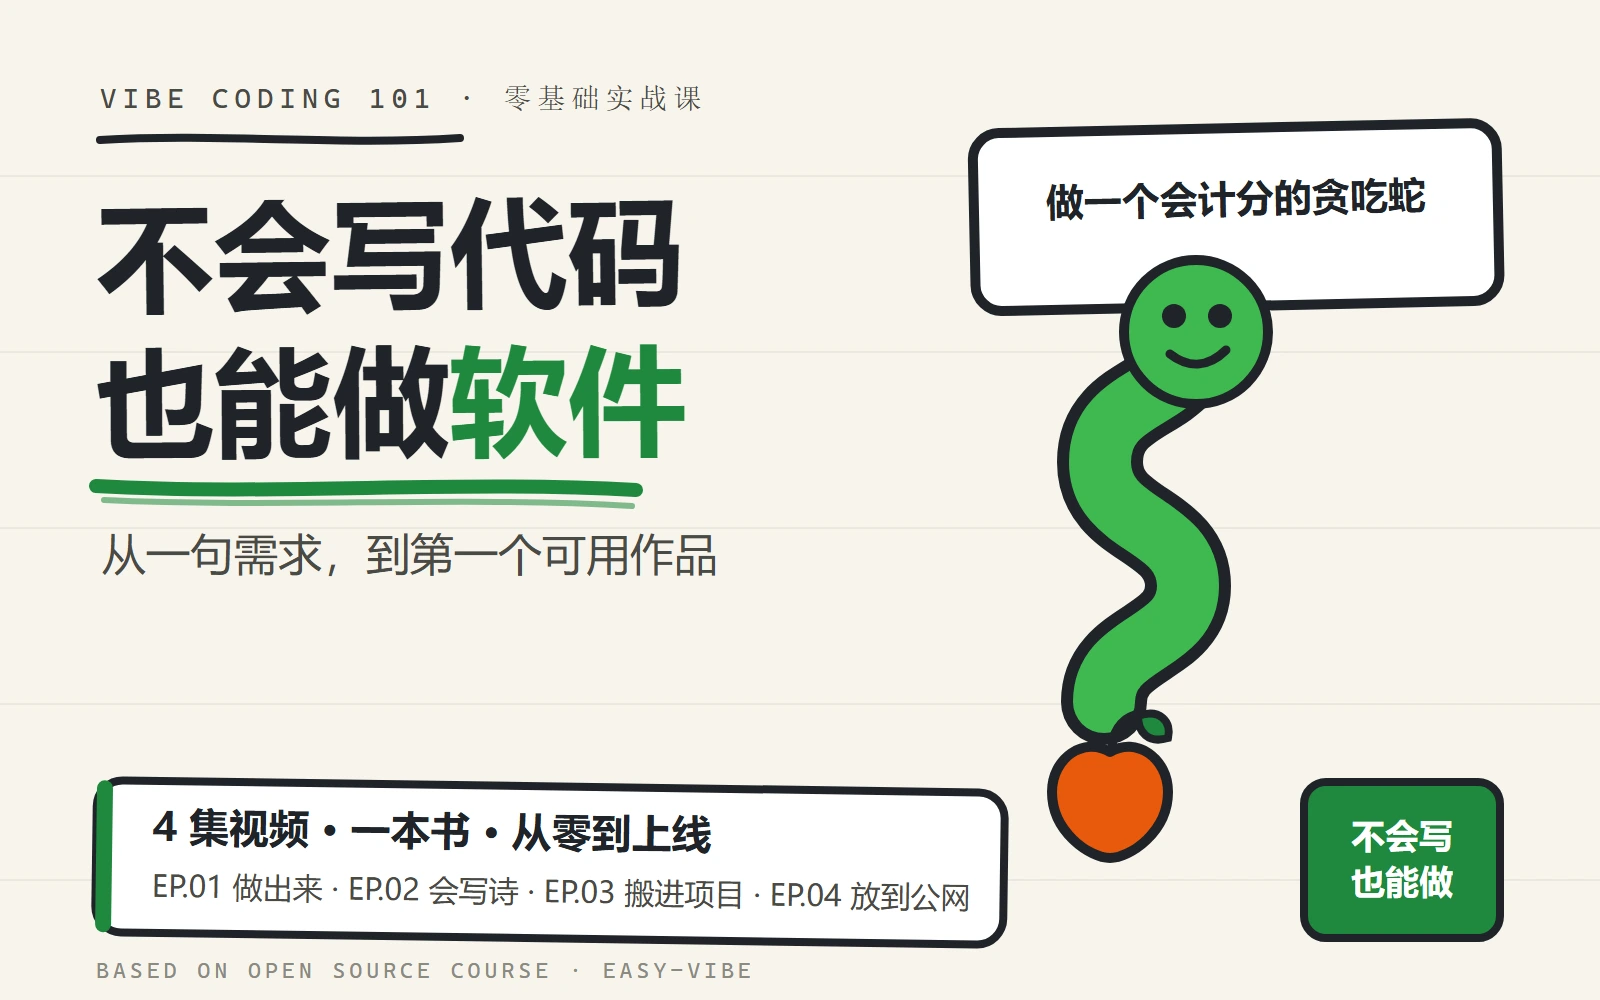
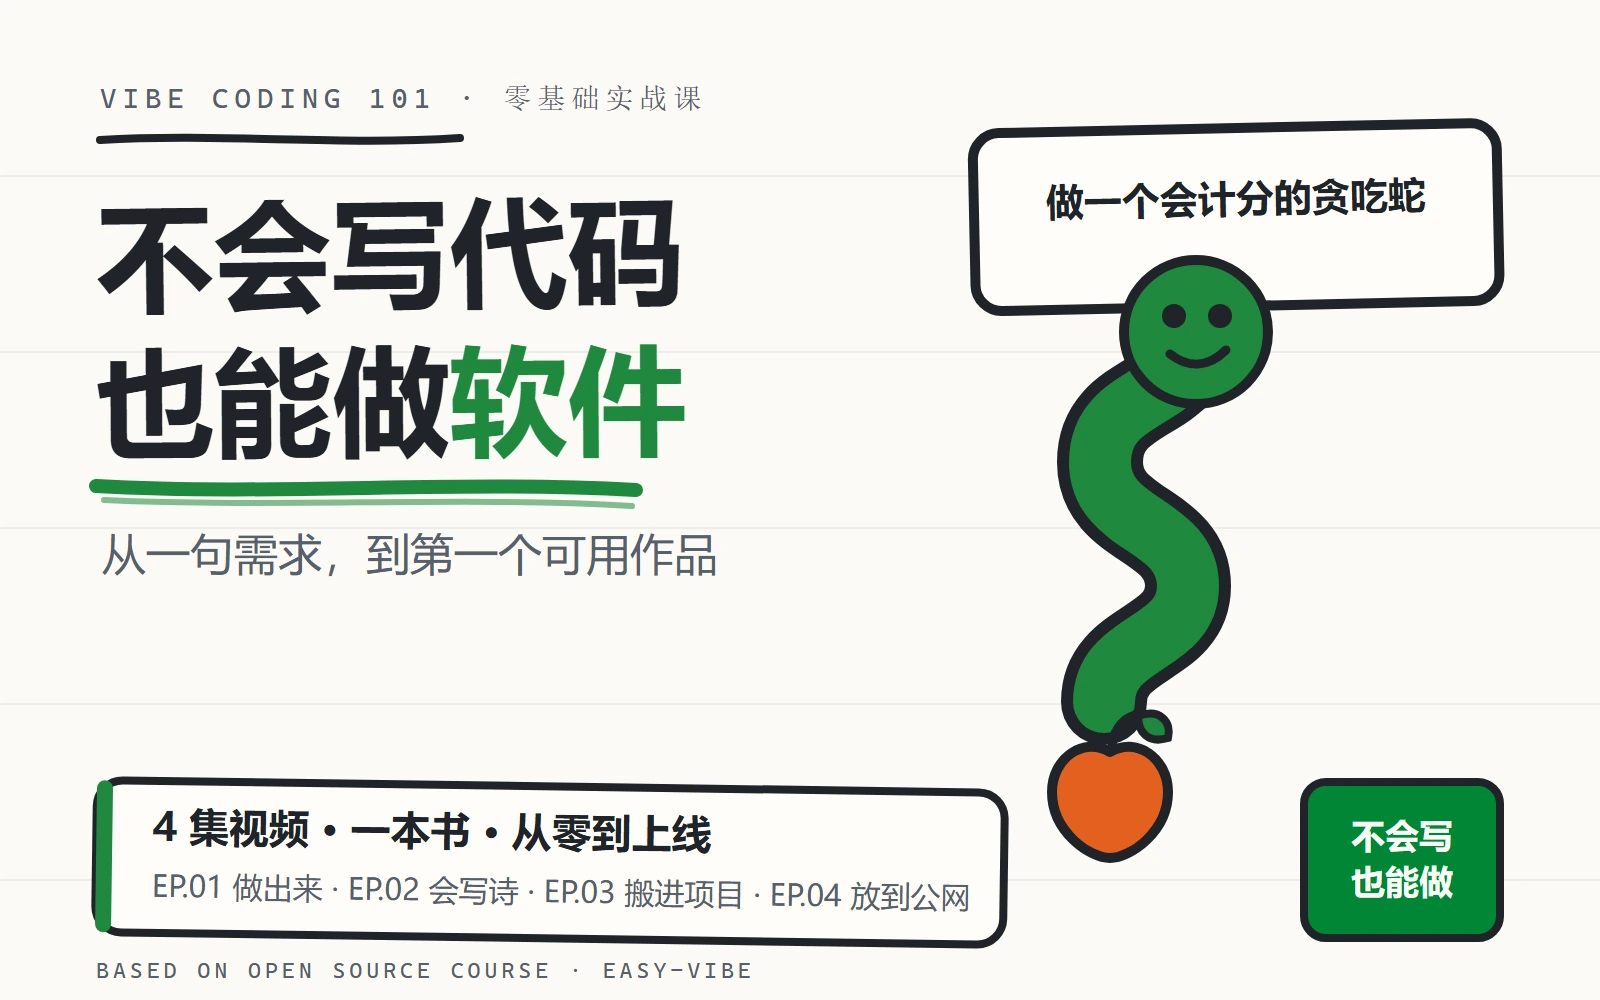
feat(covers): draw the book cover on the design-system tokens
The hand-drawn cover still carried pre-token colors: pure white cards, a
#1f883d badge under white text (measured 4.33:1, below the onText floor),
off-token paper, snake green and apple orange. Everything now maps to
tokens.css — card #fffdf8, badge #008635 with paper text (4.51:1 / APCA 74),
accent #1f883d kept for graphics only, persimmon #e2601f apple, ink-soft
#57606a for the small type. cover.webp is re-rendered from the SVG by the
new render_book_cover.py (same Chrome+Pillow pipeline as the EP.01 covers).

diff --git a/design/handdraw/render_book_cover.py b/design/handdraw/render_book_cover.py
@@ -1,0 +1,54 @@
+#!/usr/bin/env python3
+"""Re-render `book/assets/cover.webp` from `book/assets/cover.svg`.
+
+The SVG is the source of truth (token-aligned to design/system/tokens.css);
+the webp is only a raster snapshot of it, same Chrome + Pillow pipeline as
+render_ep01_covers.py.
+
+    python design/handdraw/render_book_cover.py
+"""
+
+from __future__ import annotations
+
+import os
+import subprocess
+import tempfile
+from pathlib import Path
+
+from PIL import Image
+
+CHROME = r"C:\Program Files\Google\Chrome\Application\chrome.exe"
+ROOT = Path(__file__).resolve().parents[2]
+SVG = ROOT / "book" / "assets" / "cover.svg"
+WEBP = ROOT / "book" / "assets" / "cover.webp"
+STILL = ROOT / "design" / "handdraw" / "renders" / "book-cover.png"
+SIZE = (1600, 1000)
+
+
+def main() -> None:
+    STILL.parent.mkdir(parents=True, exist_ok=True)
+    if STILL.exists():
+        STILL.unlink()
+    profile = tempfile.mkdtemp(prefix="book-cover-chrome-")
+    subprocess.run(
+        [
+            CHROME, "--headless=new", "--disable-gpu", "--hide-scrollbars",
+            "--disable-extensions", "--no-first-run", "--no-default-browser-check",
+            "--force-device-scale-factor=1", f"--user-data-dir={profile}",
+            f"--window-size={SIZE[0]},{SIZE[1]}", f"--screenshot={STILL}",
+            "file:///" + str(SVG).replace(os.sep, "/"),
+        ],
+        capture_output=True,
+        timeout=90,
+    )
+    if not STILL.exists() or STILL.stat().st_size < 10_000:
+        raise SystemExit(f"chrome produced no screenshot for {SVG}")
+    with Image.open(STILL) as im:
+        if im.size != SIZE:
+            raise SystemExit(f"book-cover.png: got {im.size}, want {SIZE}")
+        im.convert("RGB").save(WEBP, "WEBP", quality=92, method=6)
+    print(f"{SVG.name} -> {WEBP.relative_to(ROOT)} ({WEBP.stat().st_size:,} bytes)")
+
+
+if __name__ == "__main__":
+    main()
